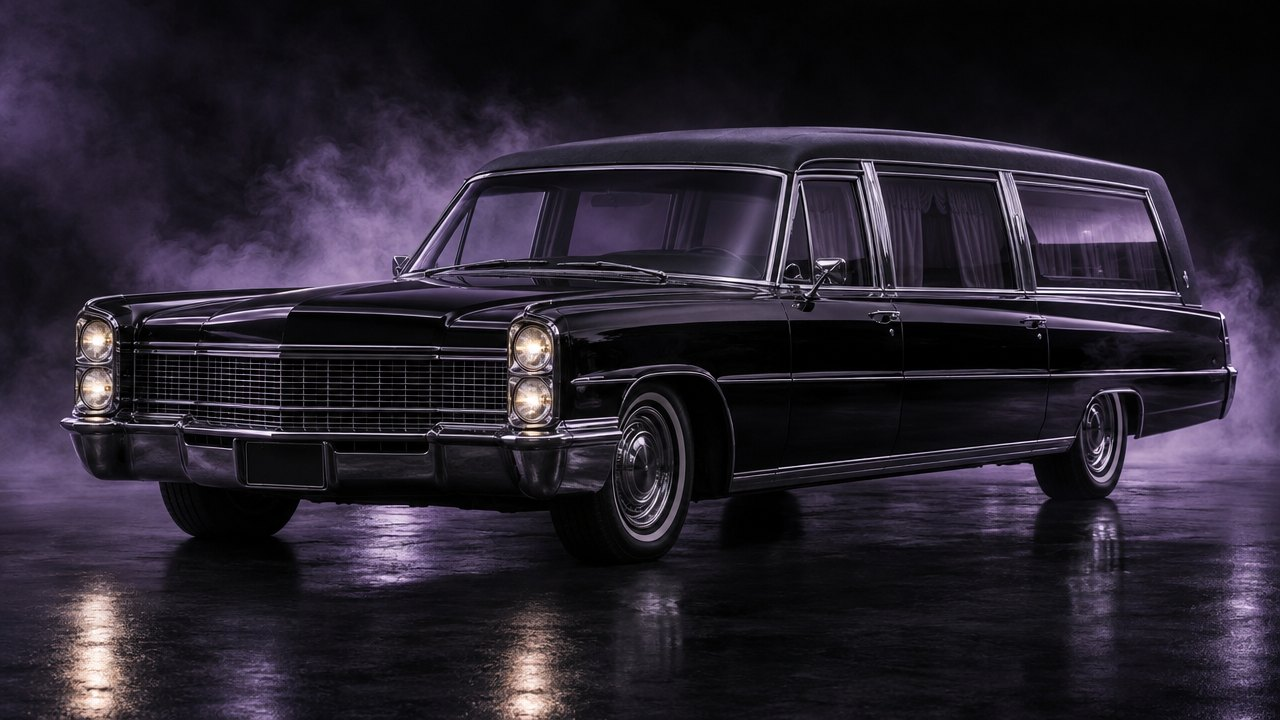
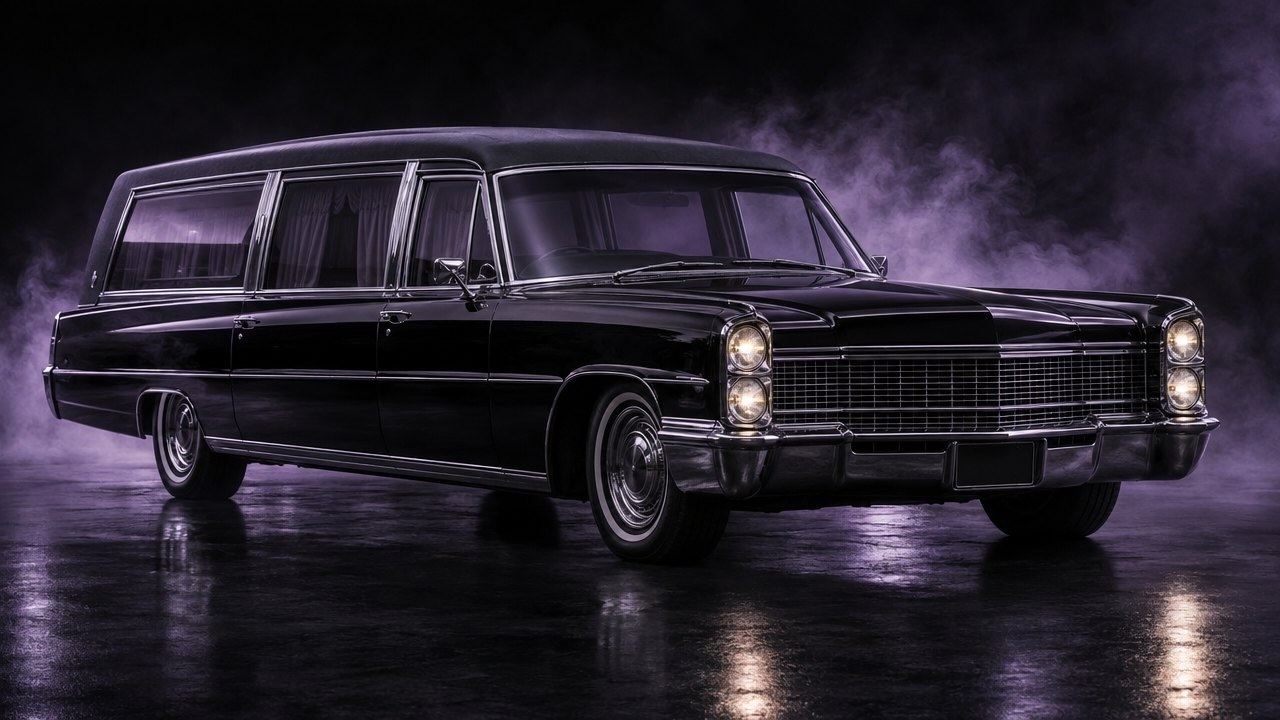
Pictures for all 23 cars in one style, every car facing right

diff --git a/app.js b/app.js
@@ -154,7 +154,7 @@
       b.setAttribute('role', 'option');
       const n = document.createElement('b'); n.textContent = c.name;
       const s = document.createElement('span'); s.textContent = c.desc;
-      const th = new Image(); th.src = 'img/' + c.id + '.jpg'; th.alt = ''; th.className = 'th'; th.loading = 'lazy';
+      const th = new Image(); th.src = 'img/' + c.id + '.jpg?v=2'; th.alt = ''; th.className = 'th'; th.loading = 'lazy';
       th.onerror = () => { const ph = document.createElement('div'); ph.className = 'th ph'; th.replaceWith(ph); }; // no photo yet: keep the tile the same shape
       b.append(th, n, s);
       if (!isPro()) { const t = document.createElement('em'); t.className = 'tier ' + (c.free ? 'free' : 'pro'); t.textContent = c.free ? 'FREE' : 'PRO'; b.appendChild(t); }
@@ -211,7 +211,7 @@
     paintFav();
     el.carIdx.textContent = String(CARS.indexOf(c) + 1).padStart(2, '0') + '/' + String(CARS.length).padStart(2, '0');
     el.carArt.replaceChildren();
-    const im = new Image(); im.alt = c.name; im.decoding = 'async'; im.src = 'img/' + c.id + '.jpg';
+    const im = new Image(); im.alt = c.name; im.decoding = 'async'; im.src = 'img/' + c.id + '.jpg?v=2';
     im.onerror = () => { el.carArt.innerHTML = carSvg(); el.carArt.classList.add('fallback'); };
     el.carArt.classList.remove('fallback'); el.carArt.appendChild(im);
     if (!el.cars.children.length) renderCars(); else markCurrent();

diff --git a/index.html b/index.html
@@ -125,7 +125,7 @@
 
 <footer class="site-foot"><a href="mailto:dfpalomar@gmail.com">Contact</a><a href="terms.html">Terms &amp; Privacy</a></footer>
 
-<script src="app.js?v=202611162200"></script>
+<script src="app.js?v=202611162135"></script>
 <script src="config.js?v=202611151800"></script>
 <script src="vendor/qrcode.js?v=1"></script>
 <script src="paywall.js?v=202611151800"></script>
